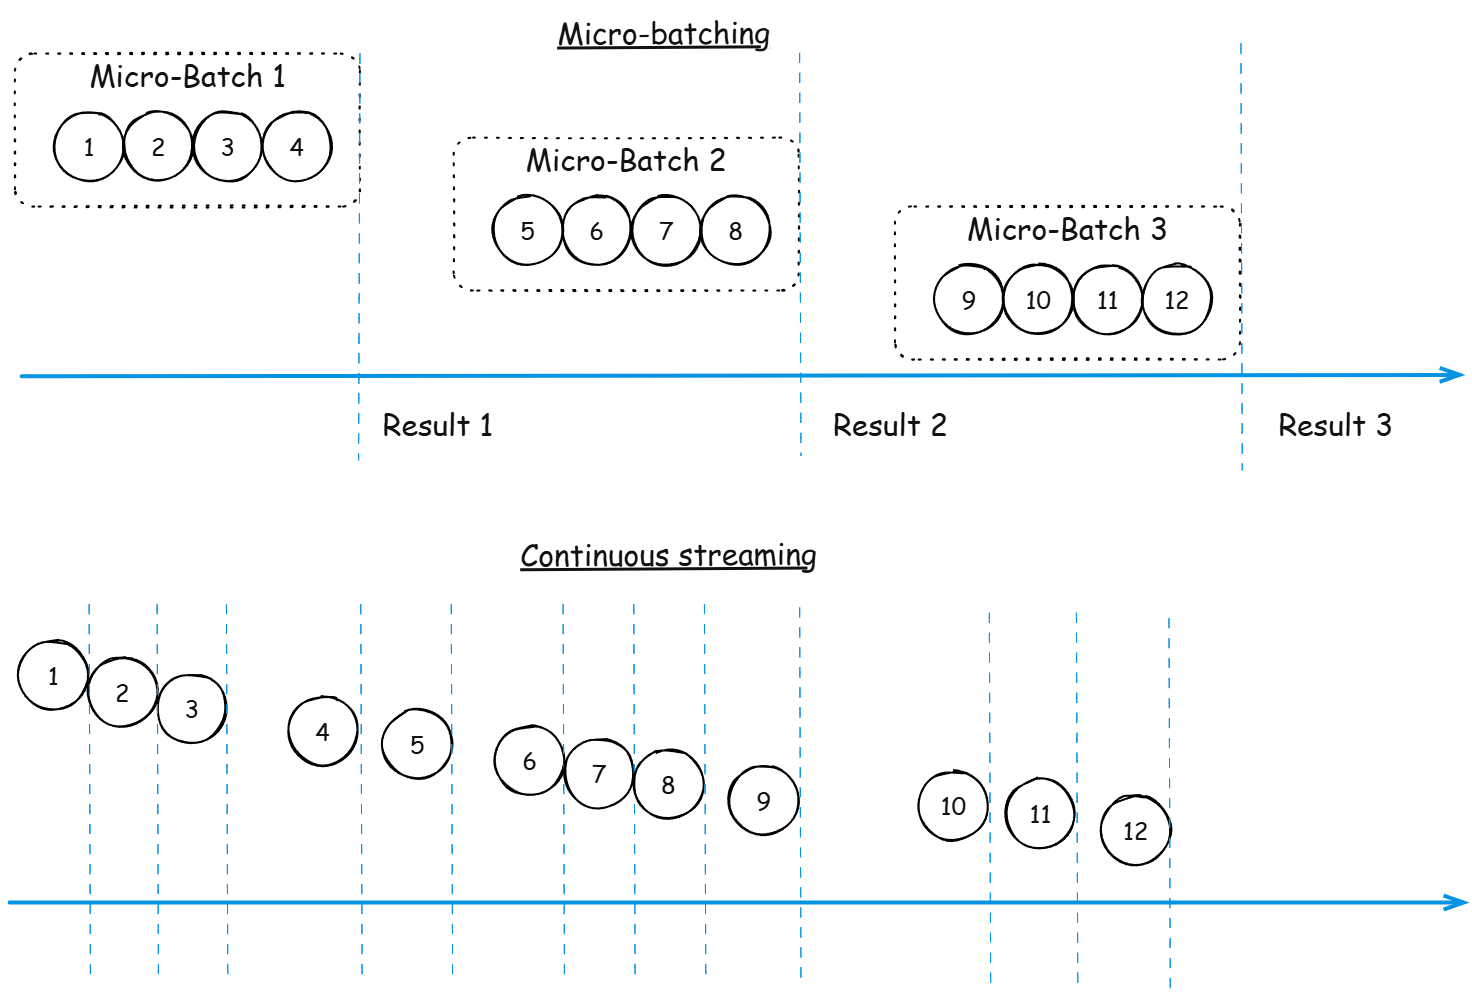
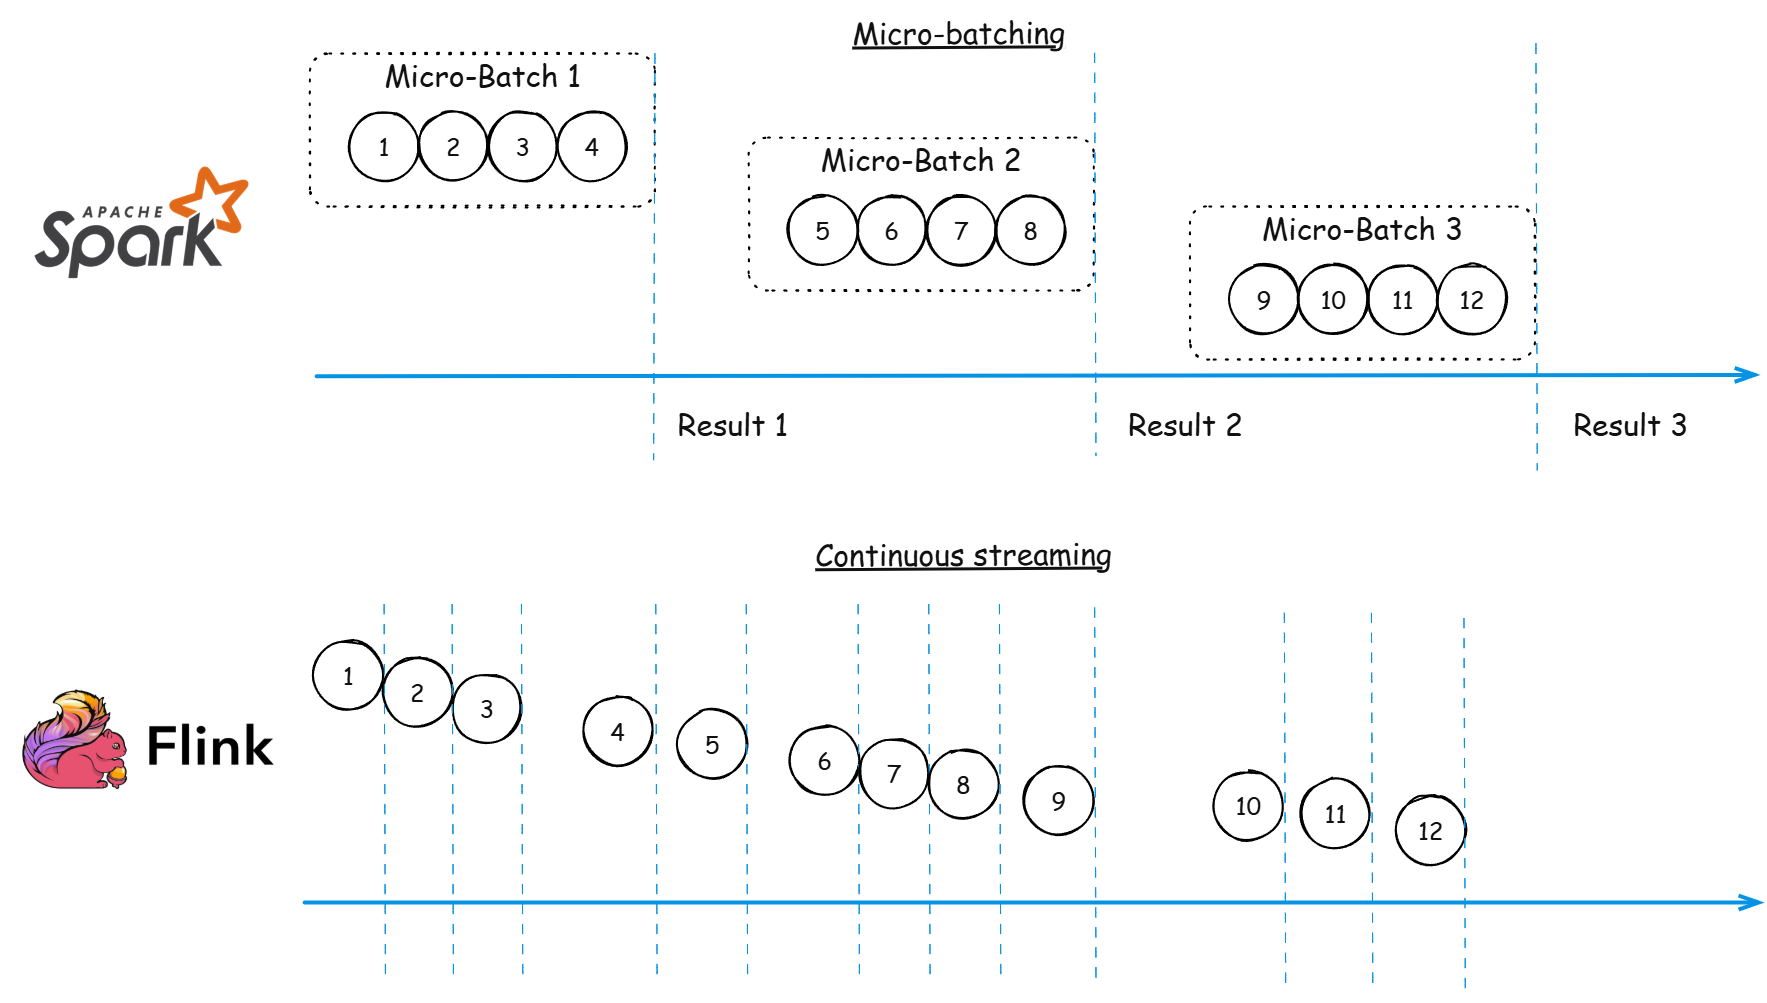
Update slides

diff --git a/slides/streaming-spark-flink.md b/slides/streaming-spark-flink.md
@@ -27,28 +27,21 @@ section.bottom-right .content {
 section.bottom-right .content p {
   margin: 5px 0;
 }
-section.comparison {
-  display: grid;
-  grid-template-columns: 1fr 1fr;
-  gap: 40px;
-  padding: 40px 20px;
-  align-content: start;
+section table {
+  margin: 40px auto 0;
 }
-section.comparison h2 {
-  grid-column: 1 / -1;
+section table th,
+section table td {
+  font-size: 0.85em;
 }
-section.comparison .framework {
-  flex: 1;
-  text-align: left;
-  padding: 0 30px;
+section.winner table {
+  table-layout: fixed;
+  width: 80%;
 }
-section.comparison .framework img {
-  height: 150px;
-  margin-bottom: 5px;
-}
-section.comparison .framework ul,
-section.comparison .framework li {
-  font-size: 0.9em;
+small {
+  font-size: 0.4em;
+  display: block;
+  margin-top: -20px;
 }
 </style>
 
@@ -78,11 +71,11 @@ Hikari Data inc.
 
 ## Typical use cases
 
-- **Real-time analytics**
-- **Event-driven applications**
-- **Sensor data processing (IoT)**
-- **Business monitoring and alerting**
-- **Anomaly and fraud detection**
+- Real-time analytics
+- Event-driven applications
+- Sensor data processing (IoT)
+- Business monitoring and alerting
+- Anomaly and fraud detection
 
 ---
 
@@ -94,7 +87,7 @@ Hikari Data inc.
 
 <!-- _class: centered-image -->
 
-## Simple example (visual)
+## Simple example (timeline)
 
 ![w:1020](./img/state-management.png)
 
@@ -107,7 +100,6 @@ Hikari Data inc.
   - DStream API (legacy)
   - Structured Streaming (DataFrame API)
   - Spark SQL integration
-- **Languages**: Scala, Java, Python, R, SQL
 - **Additional libraries**: MLlib, GraphX, Spark Connect, Pandas Spark
 - **Mature ecosystem**
 
@@ -129,7 +121,6 @@ Hikari Data inc.
   - DataStream API (low-level, event-by-event processing)
   - Table API (relational operations)
   - Flink SQL
-- **Languages**: Scala, Java, Python (PyFlink), SQL
 - **Additional libraries**: Flink CDC, Flink ML, Flink CEP, Flink Agents
 - **Mature ecosystem (less than Spark but mature enough)**
 
@@ -149,52 +140,76 @@ Hikari Data inc.
 
 ![w:720](./img/micro-batch.png)
 
-(mettre les logos dans l'image)
+---
+
+## Performance
+
+| ![w:120](./img/spark-logo.png) | ![w:120](./img/flink-logo.png) |
+|:----:|:----:|
+| ![w:500](./img/spark-perf.png) | ![w:500](./img/flink-perf.png) |
+
+<small>Source: https://yahooeng.tumblr.com/post/135321837876/benchmarking-streaming-computation-engines-at</small>
 
 ---
 
 ## Expected features of a streaming platform
 
-- Supports multiple sources and sinks
-- Mapping / transformation
-- Filtering
-- Grouping
-- Aggregation
-- Windowing (tumbling / sliding)
-- Watermarks
-- Scalability (distributed computing)
-
-(mettre tableau côte à côte)
+| Feature | ![w:120](./img/spark-logo.png) | ![w:140](./img/flink-logo.png) |
+|---------|:----:|:----:|
+| Supports multiple sources and sinks | ✓ | ✓ |
+| Multiple connectors | ✓ | ✓ |
+| Integration with monitoring and management tools | ✓ | ✓ |
+| Language support (streaming) | Java, Scala, Python, SQL, R | Java, Scala, Python |
+| Scalability (distributed) | ✓ | ✓ |
 
 ---
 
-## Performance
+## Stateless operators
 
-(ajouted truc de IEEE)
+| Feature | ![w:120](./img/spark-logo.png) | ![w:140](./img/flink-logo.png) |
+|---------|:----:|:----:|
+| Transformations (map / flatMap) | ✓ | ✓ |
+| Filters | ✓ | ✓ |
+| Projections (select) | ✓ | ✓ |
+| Join with static data | ✓ | ✓ |
+| Partitioning | ✓ | ✓ |
 
 ---
 
-## Stateful vs stateless operators
+## Stateful operators
 
-| Stateless | Stateful |
-|-----------|----------|
-| Transformations (map or flatMap) | Aggregations (sum, count, avg, custom) |
-| Filters | Grouping |
-| Projections (select) | Windows (tumbling and sliding) |
-| Stream to static join | Stream to stream join |
-| Partitioning | Sessionalizing |
+| Feature | ![w:120](./img/spark-logo.png) | ![w:140](./img/flink-logo.png) |
+|---------|:----:|:----:|
+| Grouping | ✓ | ✓ |
+| Aggregations (sum, count, avg, custom) | ✓ | ✓ |
+| Windows (tumbling and sliding)  | ✓ | ✓ |
+| Stream to stream join | ✓ | ✓ |
+| Sessionalizing | ✓ | ✓ |
 
 ---
 
 ## Pitfalls of streaming apps
 
-- Time management (event time vs processing time)
-- State management
-- Delivery semantics (at-most once, at-least once, exactly once)
-- Fault tolerance
-- Backpressure
+| Feature | ![w:120](./img/spark-logo.png) | ![w:140](./img/flink-logo.png) |
+|---------|:----:|:----:|
+| Time management (event time vs processing time) | ✓ | ✓ |
+| Late-arriving data (Watermarks) | ✓ | ✓ |
+| Fine-grained state management | Limited | ✓ |
+| Delivery semantics (at-most once, at-least once, exactly once) | at-least once | exactly once |
+| Fault tolerance | limited | ✓ |
+| Handle backpressure | limited | ✓ |
 
-(Comparer spark et flink)
+---
+
+## Bread and butter considerations
+
+| Feature | ![w:120](./img/spark-logo.png) | ![w:140](./img/flink-logo.png) |
+|---------|:----:|:----:|
+| Learning curve | Moderate | Steep |
+| Product maturity | High | Medium |
+| Ecosystem maturity | High | Medium |
+| Vendor support | High | Low |
+| Scalability | Medium | High |
 
 ---
 
@@ -206,26 +221,12 @@ Hikari Data inc.
 
 ---
 
-<!-- _class: comparison -->
+<!-- _class: winner -->
 
 ## And the winner is...
 
-<div class="framework">
-
-![spark-logo](./img/spark-logo.png)
-
-- Mature and stable ecosystem
-- Ease of use
-- Data engineering / ML use cases
-
-</div>
-
-<div class="framework">
-
-![flink-logo](./img/flink-logo.png)
-
-- Low latency and predictable performance
-- Responsive event-driven apps
-- Robust state management and fault tolerence
-
-</div>
+| ![w:120](./img/spark-logo.png) | ![w:120](./img/flink-logo.png) |
+|:----:|:----:|
+| Mature and stable ecosystem | Low latency and predictable performance |
+| Ease of use | Responsive event-driven apps |
+| Data engineering / ML use cases | Robust state management and fault tolerance |
